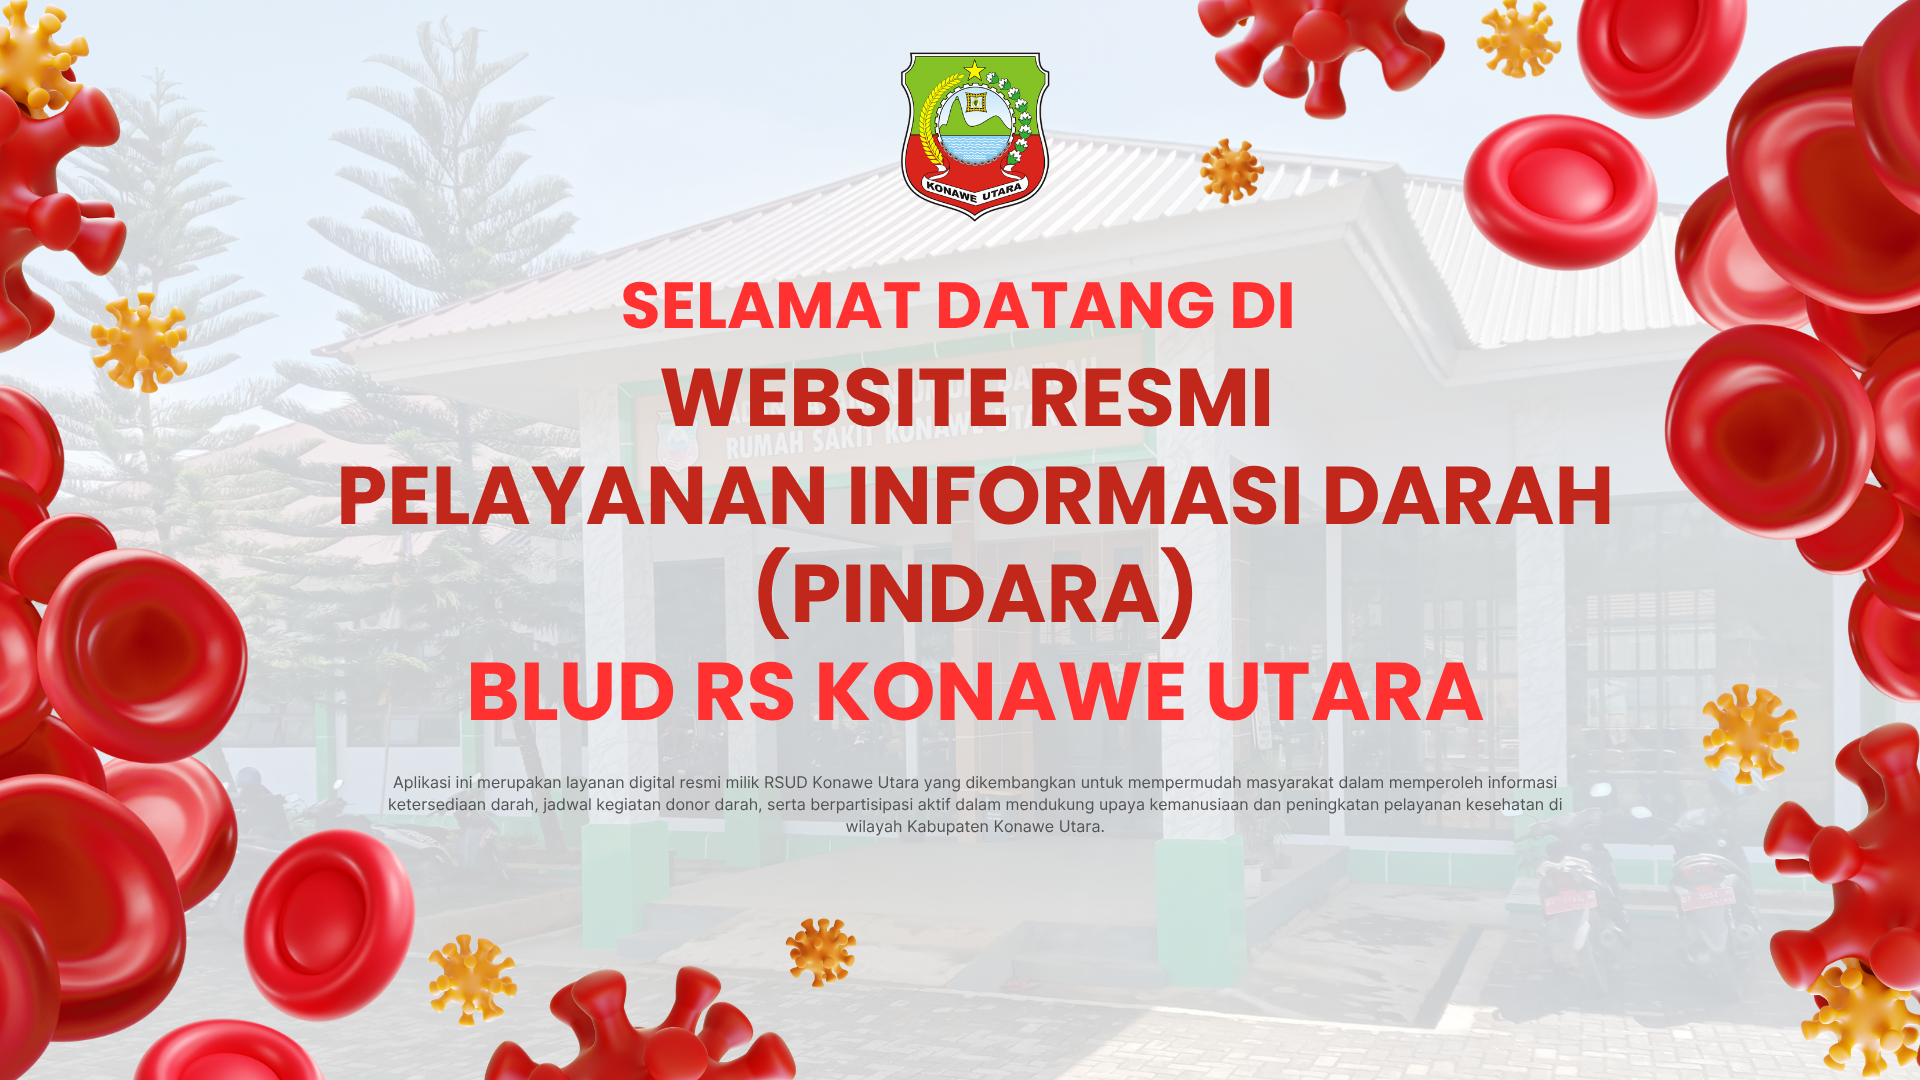
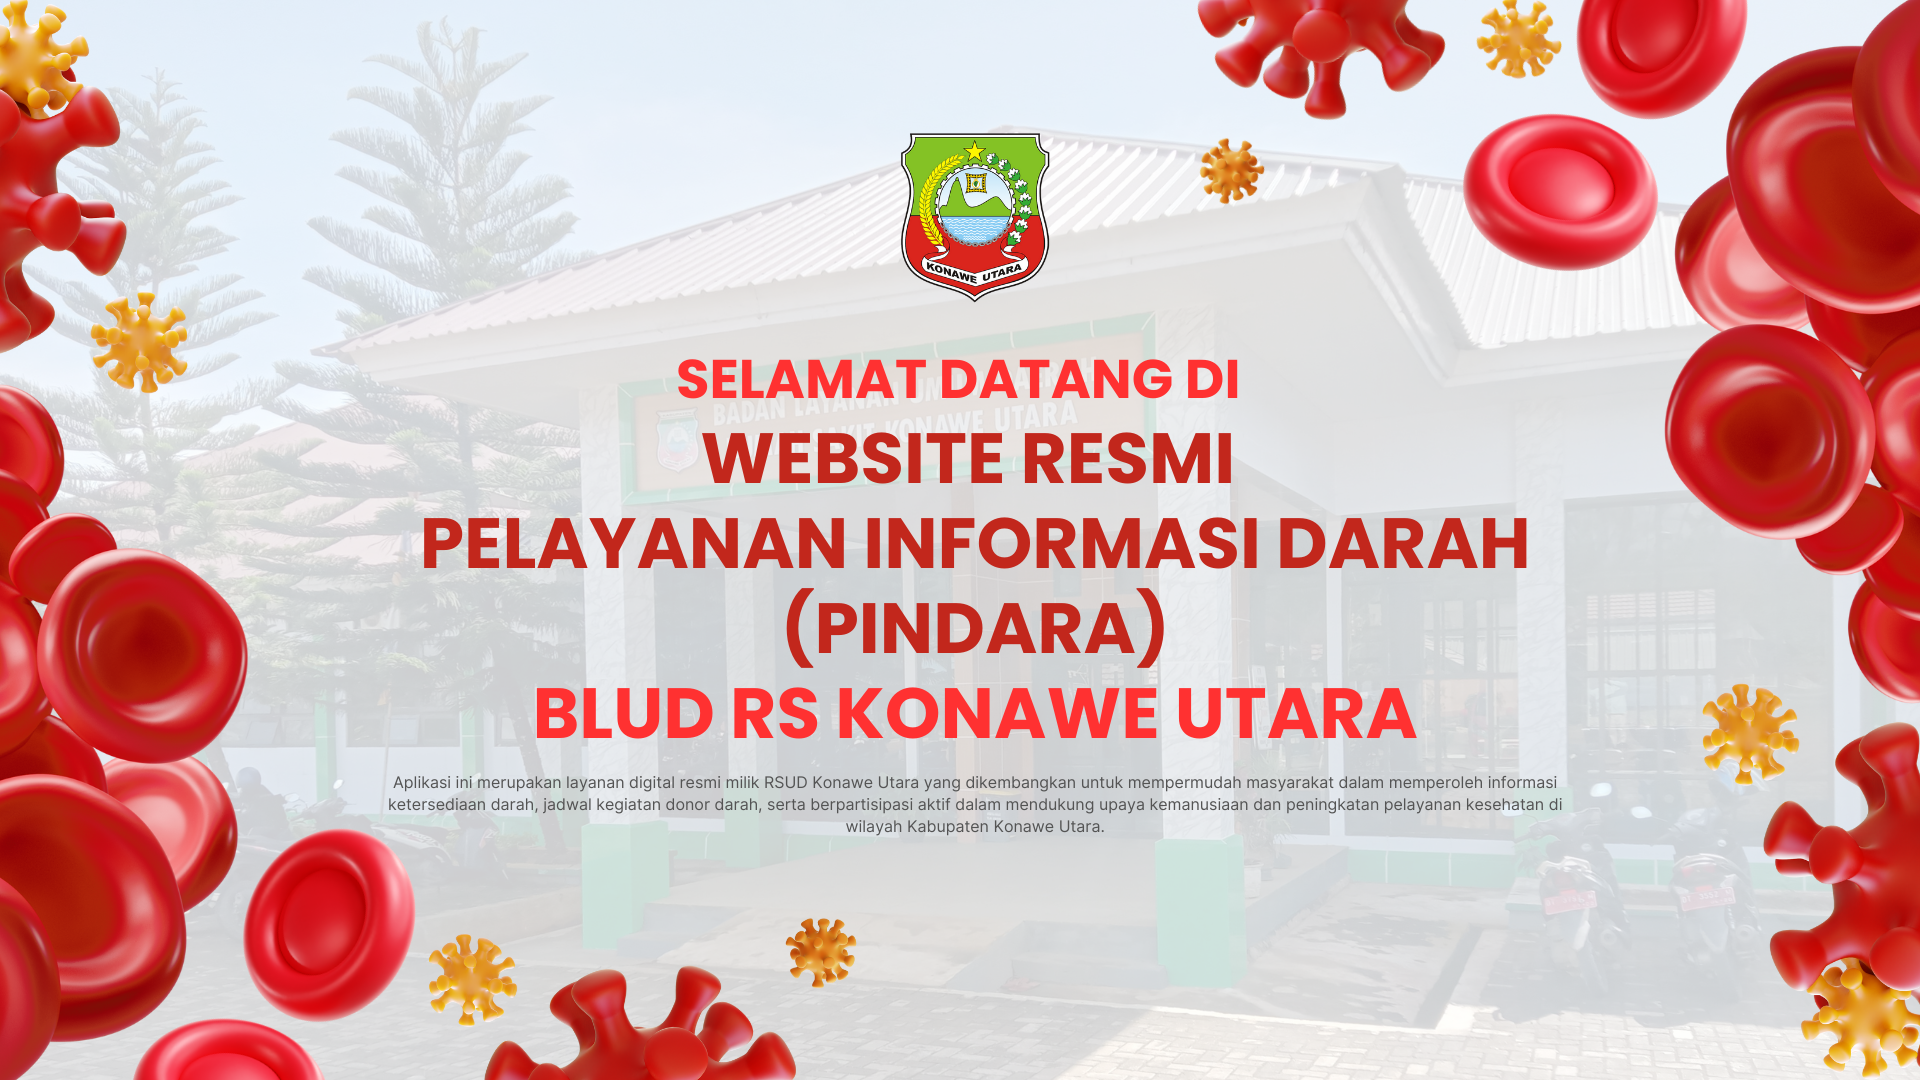
perbaikan layout mobile

Changed region(s): [[0.1562, 0.3361, 0.8438, 0.7028], [0.3125, 0.0306, 0.6875, 0.3056]]

diff --git a/web_publish/public/assets/css/style.css b/web_publish/public/assets/css/style.css
@@ -4237,5 +4237,185 @@ li.ui-timepicker-selected, .ui-timepicker-list li:hover, .ui-timepicker-list .ui
   @media (max-width: 576px){
     .decor-right, .decor-left { display: none; }
   }
+  @media (max-width: 768px) {
+    .nav-bar .logo {
+      display: flex;
+      align-items: center;
+      width: 100%;
+    }
   
+    .nav-bar .logo .logo-nav img {
+      height: 36px;
+      width: auto;
+      max-width: 180px; /* logo panjang ke kanan */
+      object-fit: contain;
+    }
+  
+    .open-nav-bar {
+      margin-left: auto; /* burger FIX kanan */
+    }
+  }
+  
+  @media (max-width: 768px) {
+    .nav-bar .logo .logo-nav {
+      margin-right: 0 !important;   /* 🔥 MATIKAN BIANG KELADI */
+    }
+  }
+
+  /* =====================================
+   FIX STOK DARAH (blood-card) MOBILE
+   ===================================== */
+@media (max-width: 768px) {
+
+    .blood-card {
+      padding: 18px 16px;
+      border-radius: 16px;
+    }
+  
+    /* Header jadi vertikal */
+    .blood-card-header {
+      display: flex;
+      justify-content: center;
+    }
+  
+    .blood-type {
+      display: flex;
+      flex-direction: column;   /* 🔥 UBAH KE KOLOM */
+      align-items: center;
+      text-align: center;
+      gap: 8px;
+    }
+  
+    /* Icon darah */
+    .blood-icon {
+      width: 56px;
+      height: 56px;
+      margin-bottom: 4px;
+    }
+  
+    /* Angka */
+    .blood-stats {
+      display: flex;
+      flex-direction: column;
+      align-items: center;
+    }
+  
+    .blood-stats .count {
+      font-size: 42px;
+      line-height: 1.1;
+      font-weight: 700;
+    }
+  
+    .blood-stats .unit {
+      font-size: 13px;
+      color: #777;
+    }
+  
+    /* Golongan + badge */
+    .blood-label {
+      display: flex;
+      flex-direction: column;
+      align-items: center;
+      gap: 6px;
+      margin-top: 4px;
+    }
+  
+    .blood-label .type-text {
+      font-size: 18px;
+      font-weight: 600;
+    }
+  
+    .blood-label .badge {
+      font-size: 12px;
+      padding: 4px 12px;
+      border-radius: 12px;
+    }
+  
+    /* Footer */
+    .blood-card-footer {
+      margin-top: 14px;
+      text-align: center;
+    }
+  
+    .blood-card-footer .meta {
+      font-size: 12px;
+      color: #888;
+    }
+  }
+/* =====================================
+   FIX TOTAL HERO MOBILE (PAKSA MENANG)
+   ===================================== */
+  /* =====================================
+   HERO MOBILE FIX (GAMBAR TIDAK HILANG)
+   ===================================== */
+@media (max-width: 768px) {
+
+    /* hero tetap punya tinggi */
+    .hero-header,
+    .header,
+    .header-carousel,
+    .header .header-carousel .sec-hero {
+      min-height: 320px !important; /* AMAN */
+    }
+  
+    /* background tampil normal */
+    .sec-hero {
+      background-size: cover !important;
+      background-position: center !important;
+      background-repeat: no-repeat !important;
+    }
+  
+    /* biarkan sistem template bekerja */
+    .display-table,
+    .table-cell {
+      display: table !important;
+      height: 100% !important;
+    }
+  
+    /* rapat ke section bawah */
+    section.header {
+      margin-bottom: 0 !important;
+      padding-bottom: 0 !important;
+    }
+  }
+  
+
+  /* =====================================
+   FIX FEATURES KETUTUP HEADER (MOBILE)
+   ===================================== */
+@media (max-width: 768px) {
+
+    /* kasih jarak aman dari header */
+    section.features {
+      padding-top: 20px !important;
+      margin-top: 0 !important;
+    }
+  
+    /* pastikan card utuh */
+    .features .features-item {
+      overflow: visible;
+    }
+  
+    /* cegah ketimpa navbar */
+    .features .card-style {
+      margin-top: 0;
+    }
+  }
+  
+  /* =====================================
+   JARAK ANTAR BLOOD CARD (MOBILE)
+   ===================================== */
+@media (max-width: 768px) {
+
+    /* jarak antar card */
+    .blood-card {
+      margin-bottom: 20px;   /* 🔥 JARAK VERTIKAL */
+    }
+  
+    /* pastikan kolom tidak nambah jarak aneh */
+    .provide-content .col-md-6,
+    .provide-content .col-lg-3 {
+      margin-bottom: 0;
+    }
+  }
   

diff --git a/web_publish/src/views/Home.vue b/web_publish/src/views/Home.vue
@@ -773,4 +773,23 @@ export default {
 .gallery-item:hover .hover-box {
     opacity: 1;
 }
+
+/* ===============================
+   JARAK ANTAR FEATURES CARD (MOBILE)
+   =============================== */
+   @media (max-width: 768px) {
+
+/* jarak antar kolom */
+.features .all-features-item > div[class*="col-"] {
+  margin-bottom: 20px;   /* 🔥 INI JARAK ANTAR KOTAK */
+}
+
+/* pastikan card tidak nempel ke tepi */
+.features .features-item {
+  margin: 0;
+}
+}
+
+
+
 </style>
